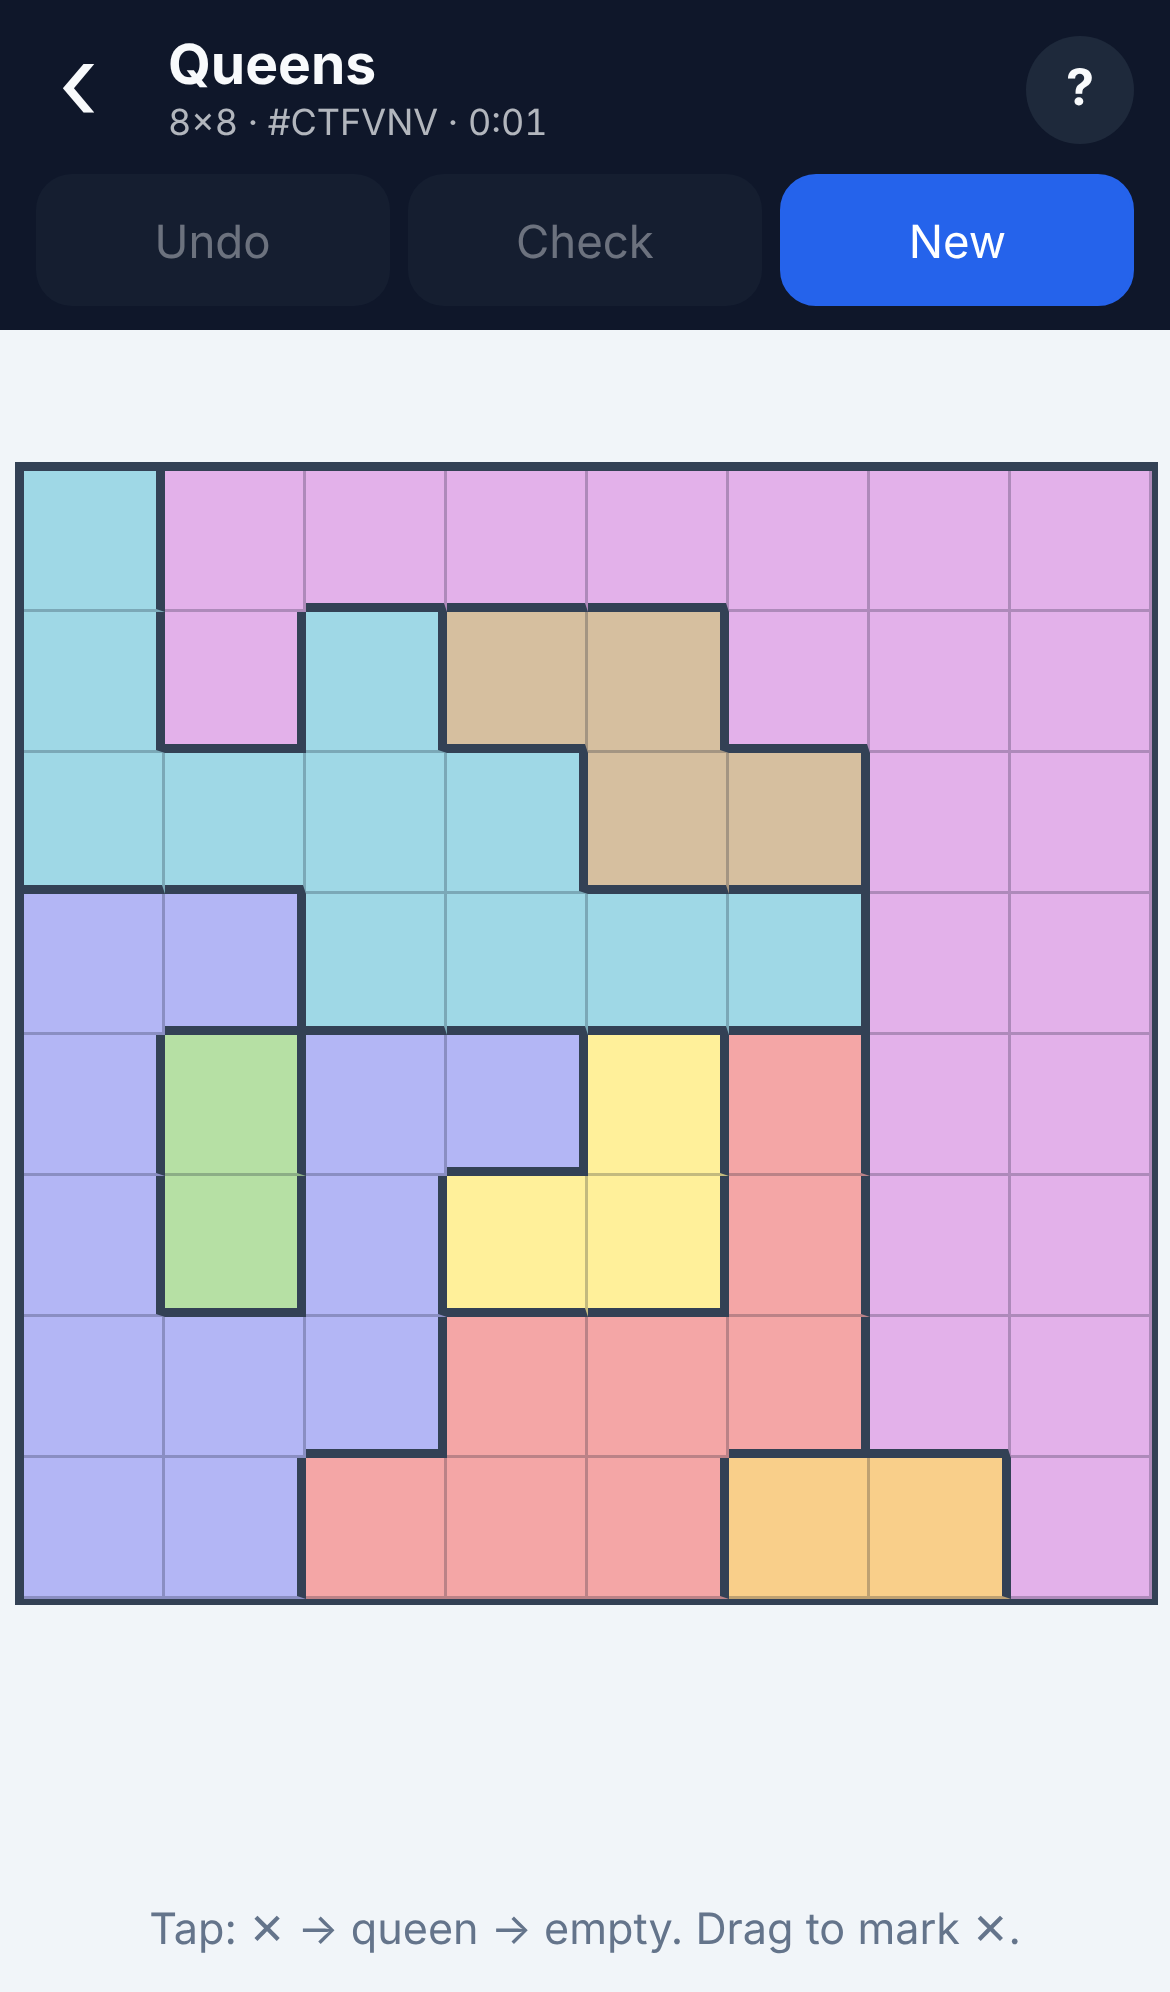
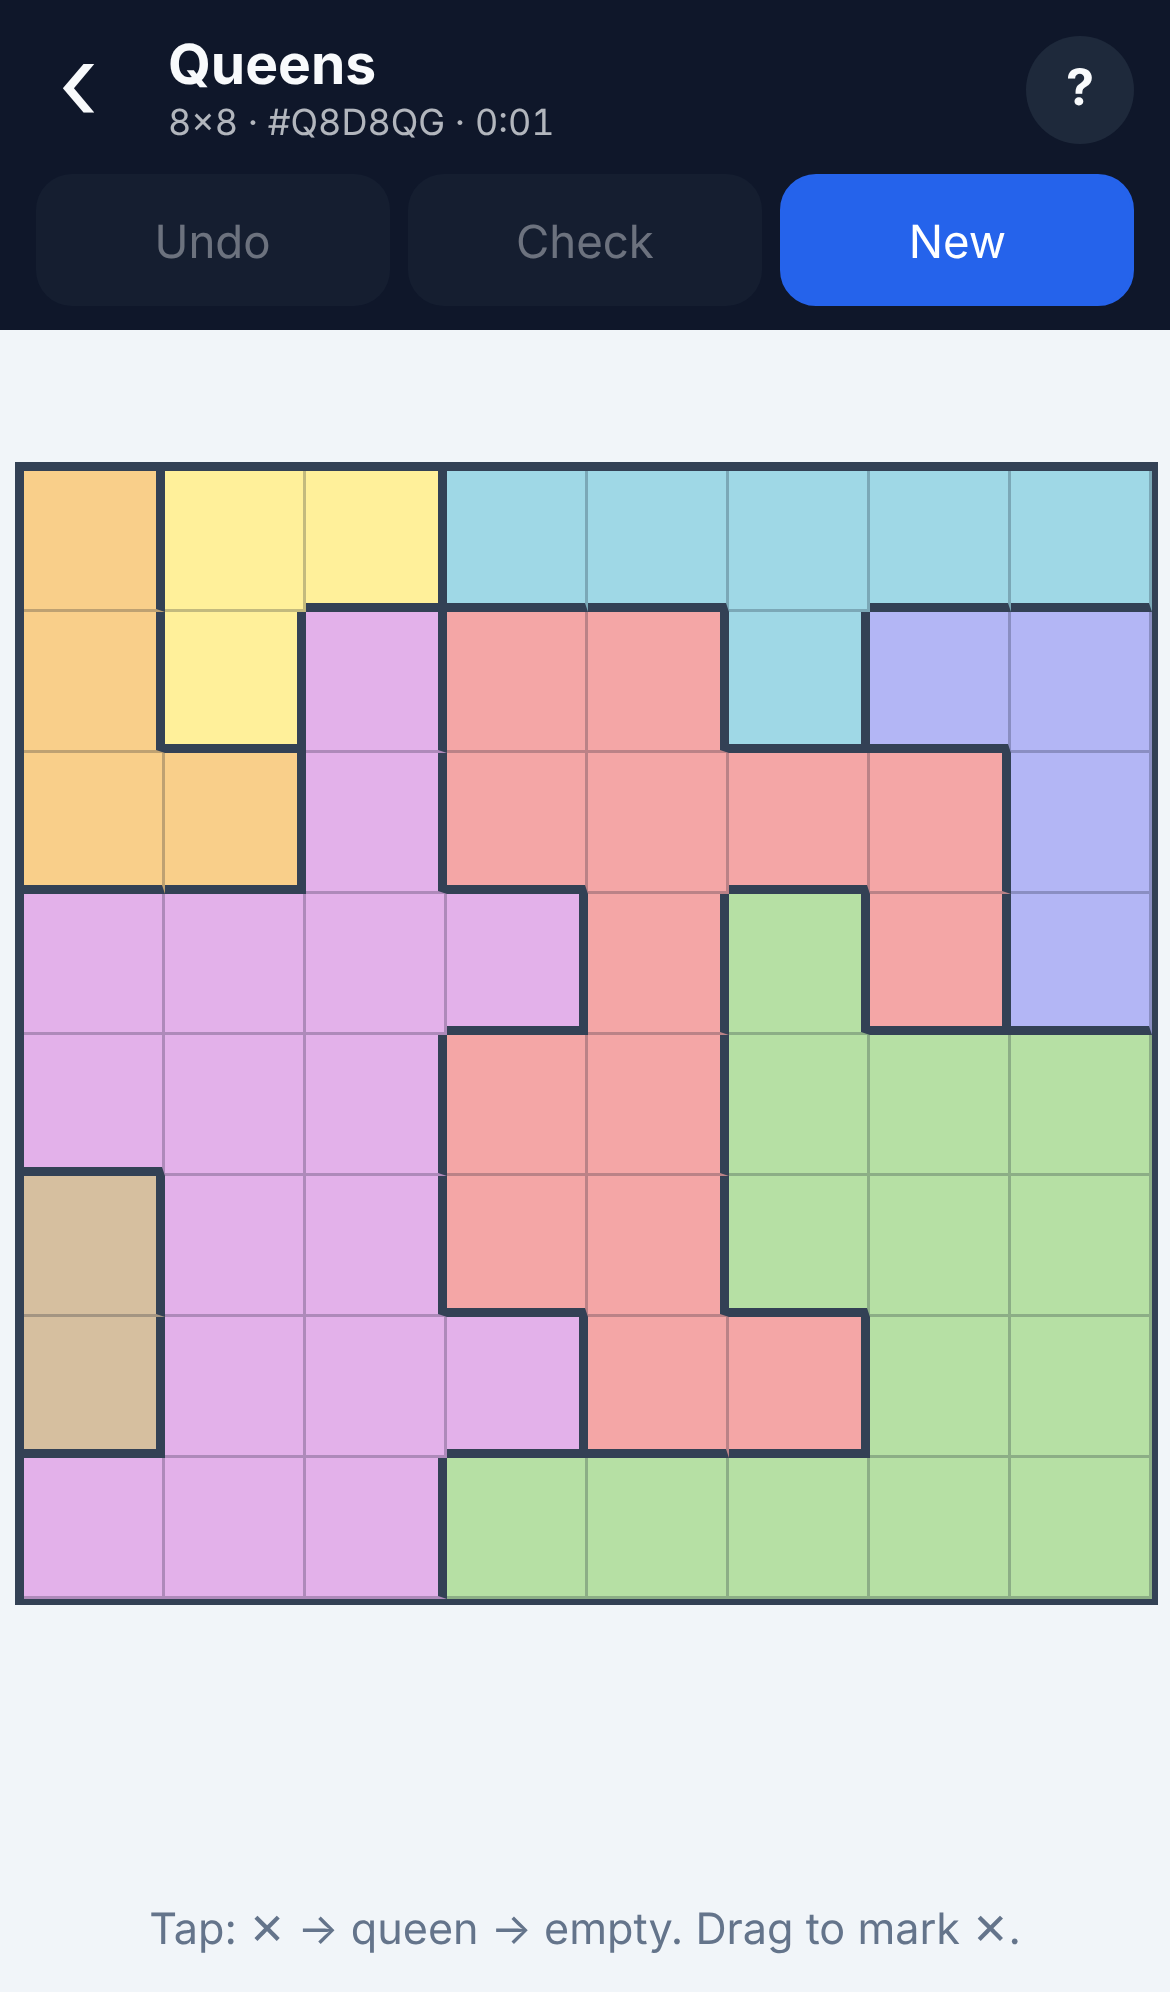
Show a screenshot of every game in the README
Claude-Session: https://claude.ai/code/session_0149oteoKAmB5gLPAemDf1ty

diff --git a/README.md b/README.md
@@ -12,10 +12,7 @@ Every puzzle is generated on the fly, has exactly one solution, and can be solve
 alone — no guessing needed.
 
 <p align="center">
-  <img src="docs/menu.png" width="190" alt="Game menu" />
-  <img src="docs/queens.png" width="190" alt="Queens" />
-  <img src="docs/sudoku.png" width="190" alt="Sudoku" />
-  <img src="docs/slitherlink.png" width="190" alt="Slitherlink" />
+  <img src="docs/menu.png" width="260" alt="Game menu" />
 </p>
 
 ## Install
@@ -29,20 +26,26 @@ It then runs full-screen and works offline.
 
 ## Games
 
-| Game | Sizes / levels |
-| --- | --- |
-| Nonogram | 10×10 |
-| Binairo (Takuzu) | 6×6, 8×8, 10×10 |
-| Queens (Star Battle) | 7×7 – 10×10 |
-| Sudoku | 4×4, 6×6, 9×9 (easy, medium, hard) |
-| Killer Sudoku | Easy, medium, hard |
-| KenKen | 4×4, 5×5, 6×6 |
-| Futoshiki | 5×5, 6×6 |
-| Kakuro | 6×6, 8×8 (including clue cells) |
-| Hitori | 6×6, 7×7, 8×8 |
-| Nurikabe | 7×7 – 10×10 |
-| Slitherlink | 5×5, 6×6, 7×7 |
-| Minesweeper (no guessing) | 9×9, 9×16 |
+<table>
+  <tr>
+    <td align="center" width="25%"><img src="docs/nonogram.png" width="180" alt="Nonogram" /><br /><b>Nonogram</b><br /><sub>10×10</sub></td>
+    <td align="center" width="25%"><img src="docs/binairo.png" width="180" alt="Binairo (Takuzu)" /><br /><b>Binairo (Takuzu)</b><br /><sub>6×6, 8×8, 10×10</sub></td>
+    <td align="center" width="25%"><img src="docs/queens.png" width="180" alt="Queens (Star Battle)" /><br /><b>Queens (Star Battle)</b><br /><sub>7×7 – 10×10</sub></td>
+    <td align="center" width="25%"><img src="docs/sudoku.png" width="180" alt="Sudoku" /><br /><b>Sudoku</b><br /><sub>4×4, 6×6, 9×9 (easy, medium, hard)</sub></td>
+  </tr>
+  <tr>
+    <td align="center" width="25%"><img src="docs/killer.png" width="180" alt="Killer Sudoku" /><br /><b>Killer Sudoku</b><br /><sub>Easy, medium, hard</sub></td>
+    <td align="center" width="25%"><img src="docs/kenken.png" width="180" alt="KenKen" /><br /><b>KenKen</b><br /><sub>4×4, 5×5, 6×6</sub></td>
+    <td align="center" width="25%"><img src="docs/futoshiki.png" width="180" alt="Futoshiki" /><br /><b>Futoshiki</b><br /><sub>5×5, 6×6</sub></td>
+    <td align="center" width="25%"><img src="docs/kakuro.png" width="180" alt="Kakuro" /><br /><b>Kakuro</b><br /><sub>6×6, 8×8 (including clue cells)</sub></td>
+  </tr>
+  <tr>
+    <td align="center" width="25%"><img src="docs/hitori.png" width="180" alt="Hitori" /><br /><b>Hitori</b><br /><sub>6×6, 7×7, 8×8</sub></td>
+    <td align="center" width="25%"><img src="docs/nurikabe.png" width="180" alt="Nurikabe" /><br /><b>Nurikabe</b><br /><sub>7×7 – 10×10</sub></td>
+    <td align="center" width="25%"><img src="docs/slitherlink.png" width="180" alt="Slitherlink" /><br /><b>Slitherlink</b><br /><sub>5×5, 6×6, 7×7</sub></td>
+    <td align="center" width="25%"><img src="docs/minesweeper.png" width="180" alt="Minesweeper (no guessing)" /><br /><b>Minesweeper (no guessing)</b><br /><sub>9×9, 9×16</sub></td>
+  </tr>
+</table>
 
 ## Shared features
 
